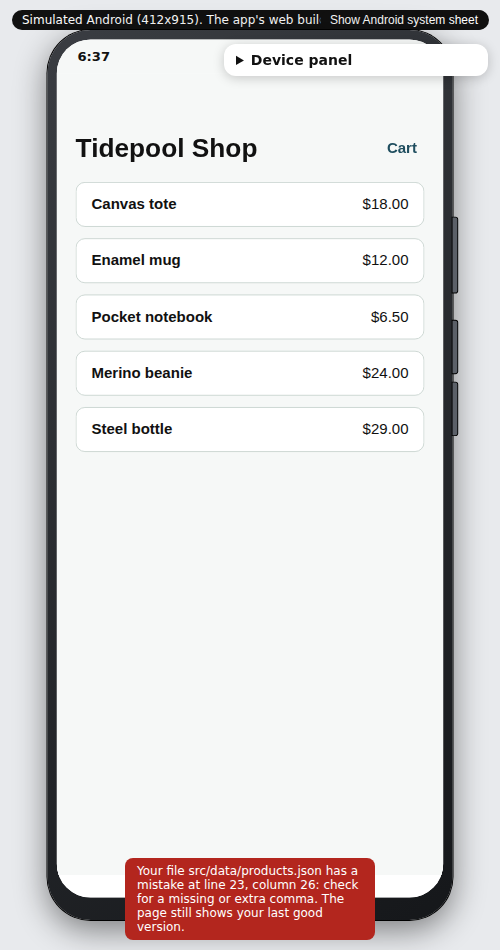
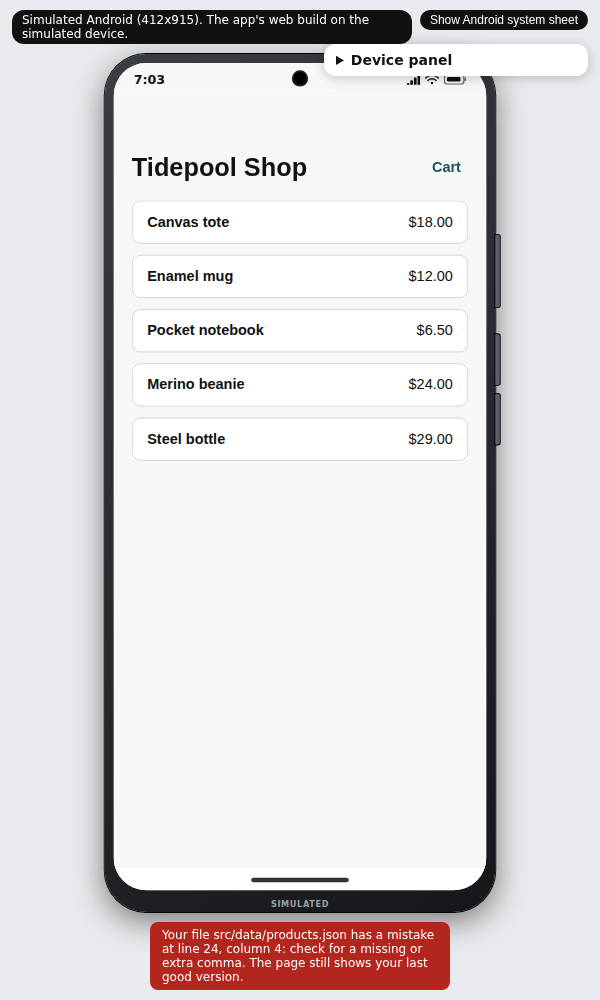
fix: retake live reload screenshots with the fixed frame, update times and sample error

Changed region(s): [[0.0, 0.0, 0.99, 1.0]]

diff --git a/docs/tutorials/run-your-app-on-a-phone.md b/docs/tutorials/run-your-app-on-a-phone.md
@@ -2,7 +2,7 @@
 
 You will type one command and get a phone, Android or iPhone style, in a browser tab, running your app. You will tap through your shop, look at the pretend Android system sheet, switch to the iPhone style and stop it again. You need no real phone, no Android Studio and no Xcode.
 
-**Level:** beginner. **Time:** about 10 minutes to read and follow. On our test machine the first start took within a minute (see "What we measured" at the end).
+**Level:** beginner. **Time:** about 15 minutes to read and follow. On our test machine the first start took within a minute (see "What we measured" at the end).
 
 New words are explained once, and collected in the [glossary](../glossary.md).
 
@@ -82,14 +82,14 @@ Leave the phone running. While it runs, Shipvo watches your app's files. When yo
 
 1. Open your app's folder in a text editor (Notepad, TextEdit or any code editor). Open the file `src/data/products.json`. It is a plain list of your products.
 2. Find `"name": "Wool beanie"` and change the words inside the quotes to `Merino beanie`. Keep the quote marks. Save the file.
-3. Look at the terminal. After a few seconds it prints one line, like `rebuilt in 6.6 s`.
+3. Look at the terminal. After a few seconds it prints one line, like `rebuilt in 8.5 s`.
 4. Look at the phone. The product in the list now says **Merino beanie**. The page did not change address and you did not click anything.
 
 ![The Android phone showing the Tidepool Shop list. The fourth product now reads Merino beanie, $24.00.](/tutorials/run-your-app-on-a-phone/08-after-edit.png)
 
-Now make a mistake on purpose, to see what Shipvo does. In the same file, delete the comma straight after `"name": "Merino beanie"`, so the line ends with a quote mark, and save. The phone keeps showing your last good version. A small red bar appears at the bottom of the phone and the terminal prints the same message, for example `Your file src/data/products.json has a mistake at line 23, column 26: check for a missing or extra comma.`
+Now make a mistake on purpose, to see what Shipvo does. In the same file, delete the comma straight after `"name": "Merino beanie"`, so the line ends with a quote mark, and save. The phone keeps showing your last good version. A small red bar appears just below the phone and the terminal prints the same message, for example `Your file src/data/products.json has a mistake at line 24, column 4: check for a missing or extra comma.`
 
-![The same phone with a red message bar at the bottom. It says the file src/data/products.json has a mistake at line 23, column 26, and that the page still shows your last good version.](/tutorials/run-your-app-on-a-phone/09-error-bar.png)
+![The same phone with a red message bar just below the phone frame. It says the file src/data/products.json has a mistake at line 24, column 4, and that the page still shows your last good version.](/tutorials/run-your-app-on-a-phone/09-error-bar.png)
 
 Put the comma back and save. The red bar goes away and the phone reloads.
 
@@ -132,7 +132,7 @@ Every time you save a change while the phone is on, it updates by itself.
 
 ## What we measured
 
-On 2026-11-07, on a GitHub Actions Linux runner, we saved a name change in `src/data/products.json` while `shipvo run android` was open. The terminal printed `rebuilt in 6.6 s` and the phone showed the new name. A file with a missing comma printed the error and showed the red bar, and the fixed file reloaded the phone (`rebuilt in 6.9 s`). The screenshots in step 5 come from that run. The browser test `packages/cli/test/run-live-reload.test.ts` checks the same behaviour on the Android and iOS frames.
+On 2026-11-07, on a GitHub Actions Linux runner, we saved a name change in `src/data/products.json` while `shipvo run android` was open. The terminal printed `rebuilt in 8.5 s` and the phone showed the new name. A file with a missing comma printed the error and showed the red bar, and the fixed file reloaded the phone (`rebuilt in 8.2 s`). The screenshots in step 5 come from that run. The browser test `packages/cli/test/run-live-reload.test.ts` checks the same behaviour on the Android and iOS frames.
 
 On 2026-11-06, on a GitHub Actions Linux runner with Node 22.23, a first start of `shipvo run android` for a new shop app, with an empty cache, bundled 204 modules in 6.0 s and was serving the phone within the 60 seconds we waited. We did not time it more closely than that. A start-to-tappable timing on a clean machine is tracked in issue #676. We took every screenshot in this tutorial from that run.
 

diff --git a/docs/tutorials/index.md b/docs/tutorials/index.md
@@ -21,7 +21,7 @@ Taking payments is not a tutorial yet: the shop template has no payment step.
 
 | Tutorial | You will | Time | Level |
 | --- | --- | --- | --- |
-| [See your app on a phone in your browser](run-your-app-on-a-phone.md) | Start a simulated Android or iPhone with one command, tap through your app, see the system sheet, change a word and watch the phone update by itself, and stop it | about 10 minutes | Beginner |
+| [See your app on a phone in your browser](run-your-app-on-a-phone.md) | Start a simulated Android or iPhone with one command, tap through your app, see the system sheet, change a word and watch the phone update by itself, and stop it | about 15 minutes | Beginner |
 
 Letting your assistant drive this same phone is not a tutorial yet: attaching is not available yet.
 
